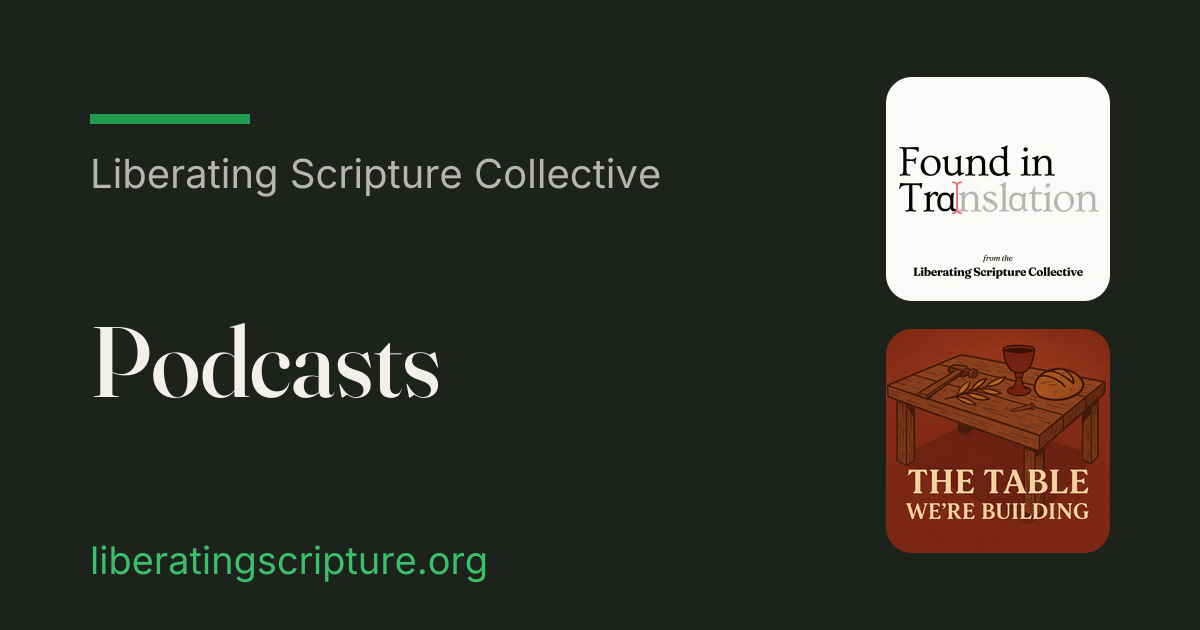
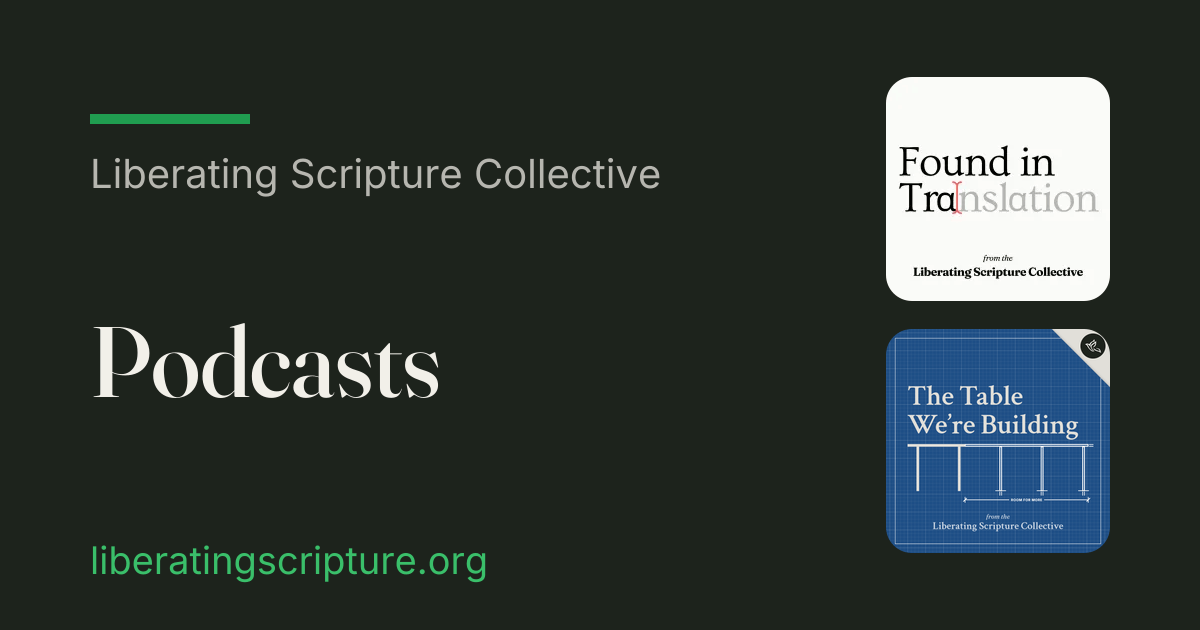
feat(podcasts): replace The Table We're Building art
The old art is discarded entirely and replaced with the new blueprint-style
square cover. The previous set was a 3:2 banner (twb-banner.png, plus its
build:images WebP) and a separate square crop for the OG card
(twb-square.png); one 2000x2000 square master, twb-cover.png, now serves
all three roles: JSON-LD PodcastSeries image, the OG podcasts tile, and the
source for the on-page twb-cover-480.webp.

The /podcasts cover goes 480x320 -> 480x480, so it now renders at the same
square footprint as the Found in Translation cover beside it.

Only og-podcasts.png changes; the other six cards regenerate byte-identical.
The podcasts page's og:image gains ?v=2 so URL-keyed preview caches refetch.

Changed region(s): [[0.74, 0.5127, 0.925, 0.9048]]

diff --git a/CLAUDE.md b/CLAUDE.md
@@ -123,8 +123,9 @@ public/                 # Served as-is at the site root:
                         #   `build:brand` — raster forms of the dove mark, for
                         #   JSON-LD and the OG composite only (pages inline the
                         #   mark instead; see The Brand Mark). The full-res
-                        #   twb-banner.png stays for JSON-LD/crawlers; the
-                        #   podcasts page loads twb-banner-480.webp from
+                        #   twb-cover.png (2000² square show art) stays for
+                        #   JSON-LD/crawlers and the OG podcasts card; the
+                        #   podcasts page loads twb-cover-480.webp from
                         #   `build:images` (O3)
   assets/screenshots/   # App screenshots for /apps, as WebP — copied byte-for-
                         #   byte from litbible, but by hand, not CI (see Apps Page)
